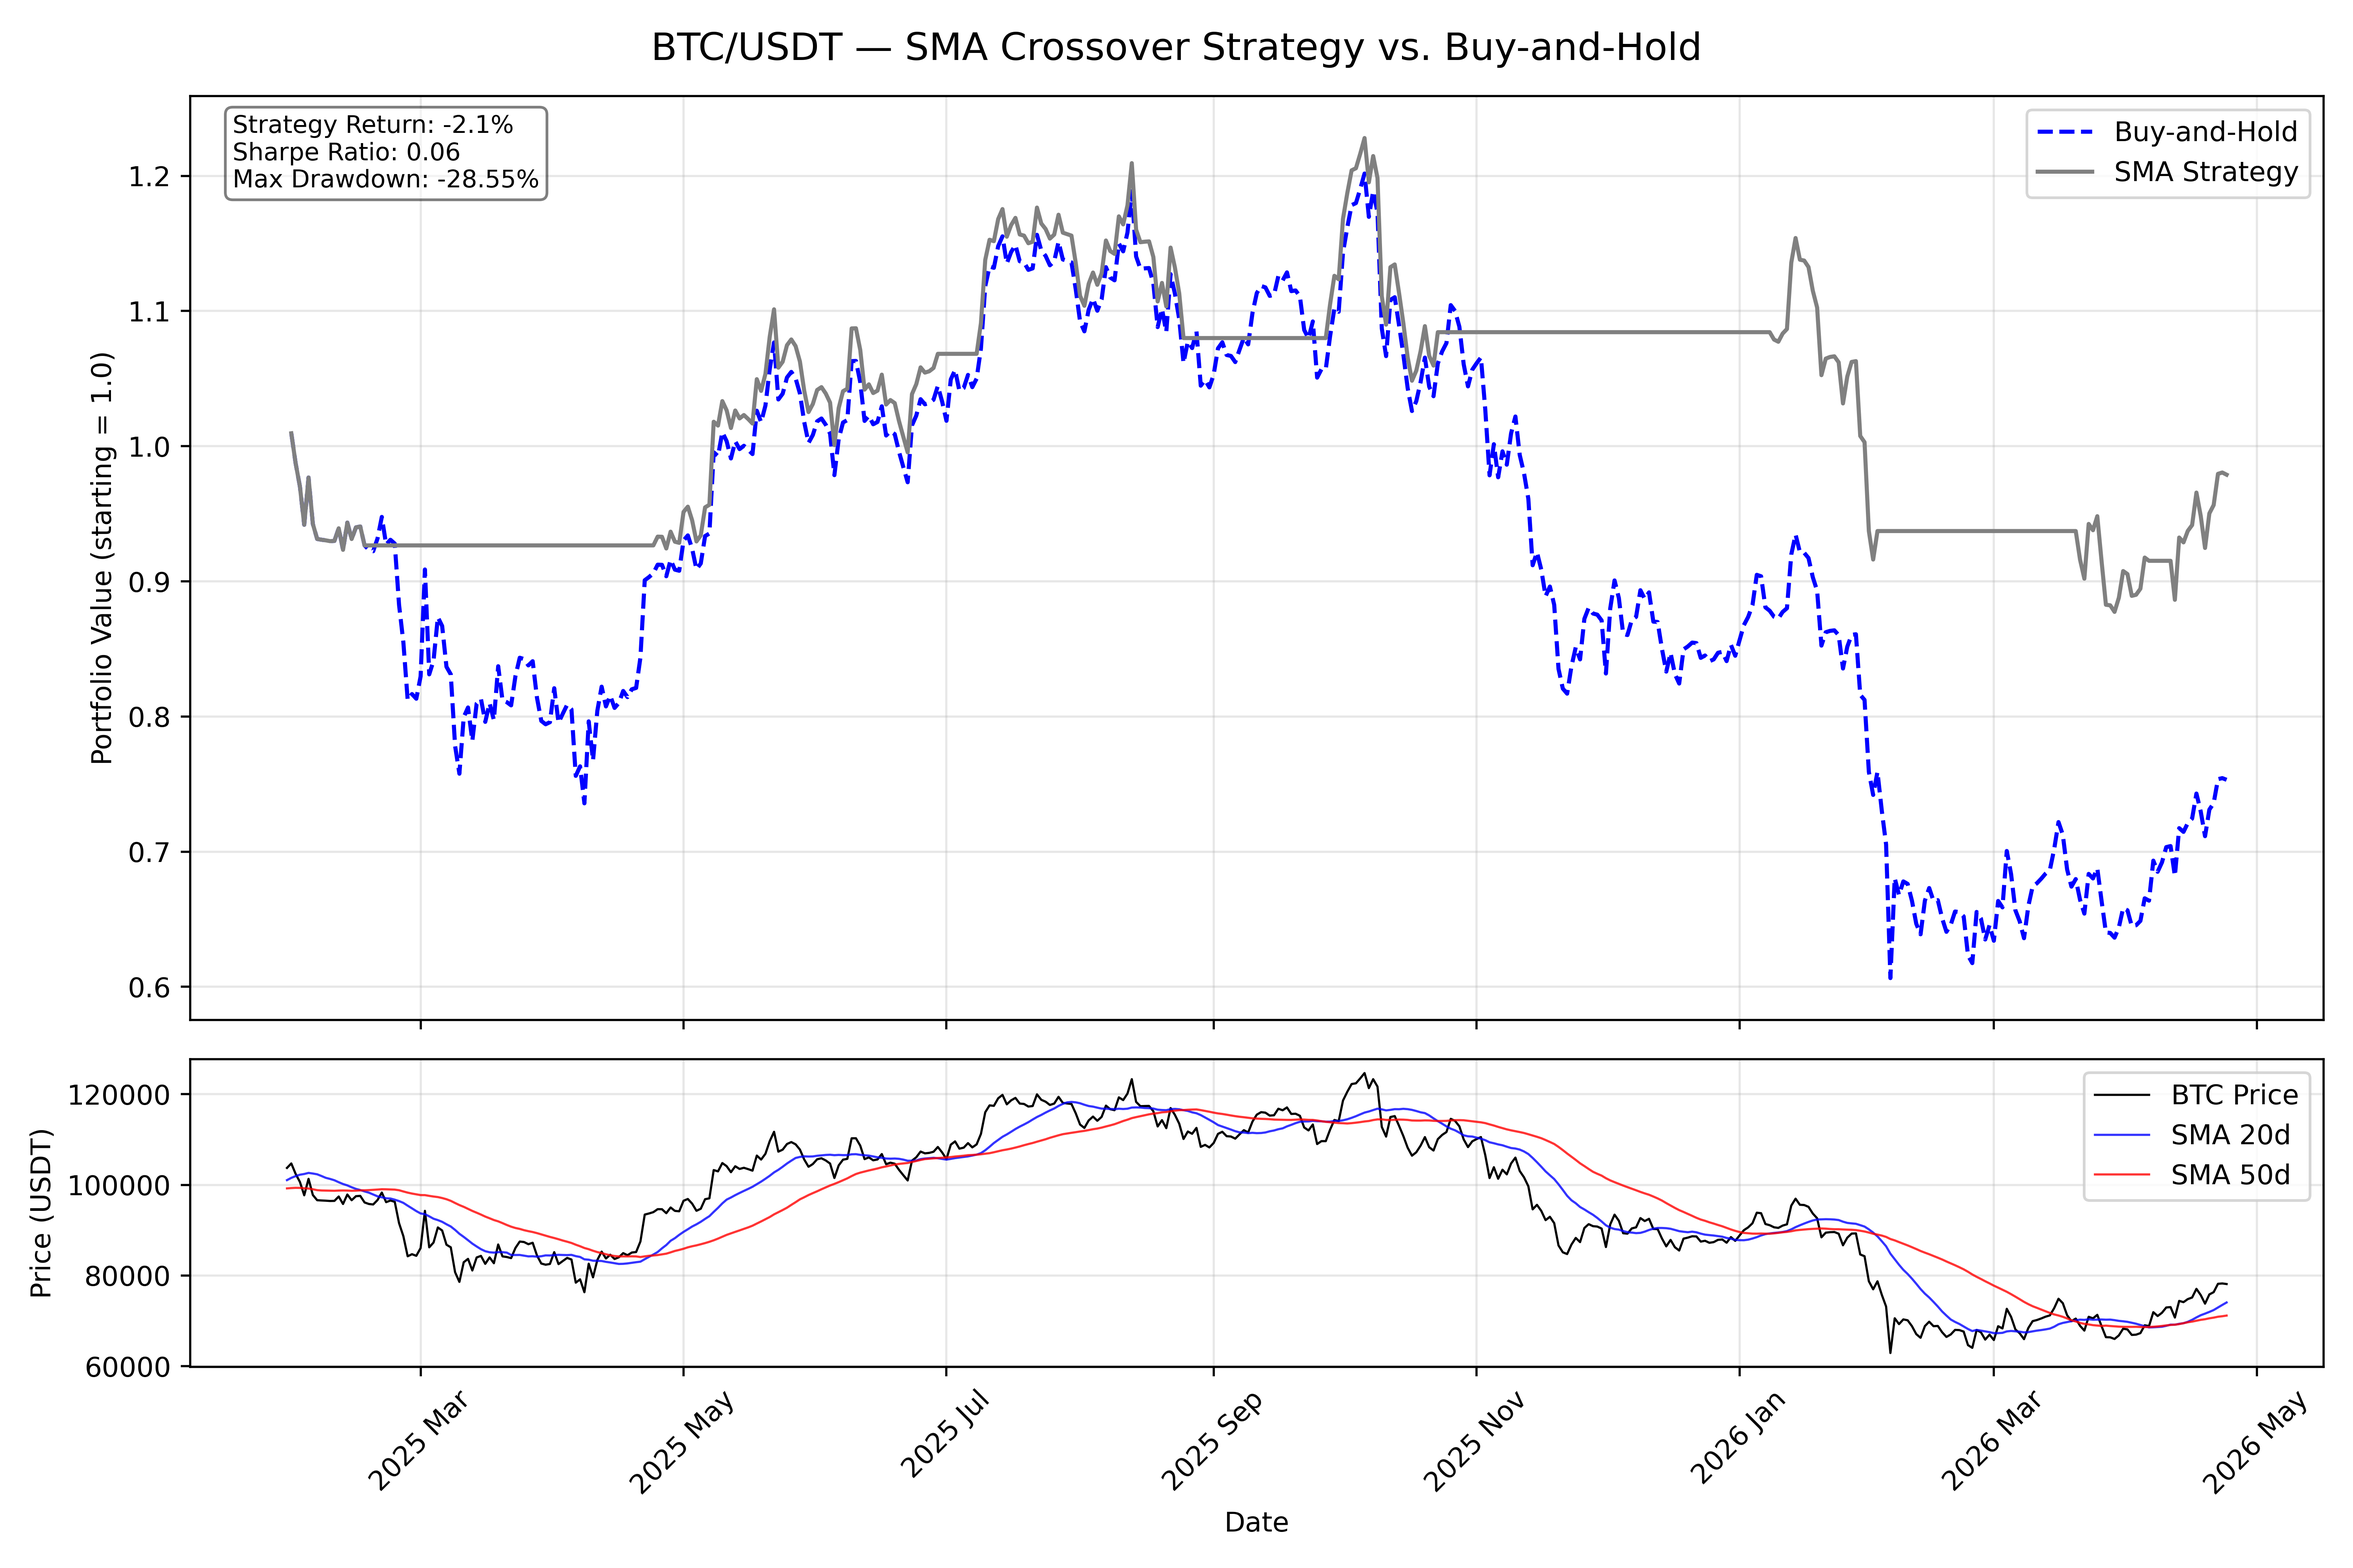
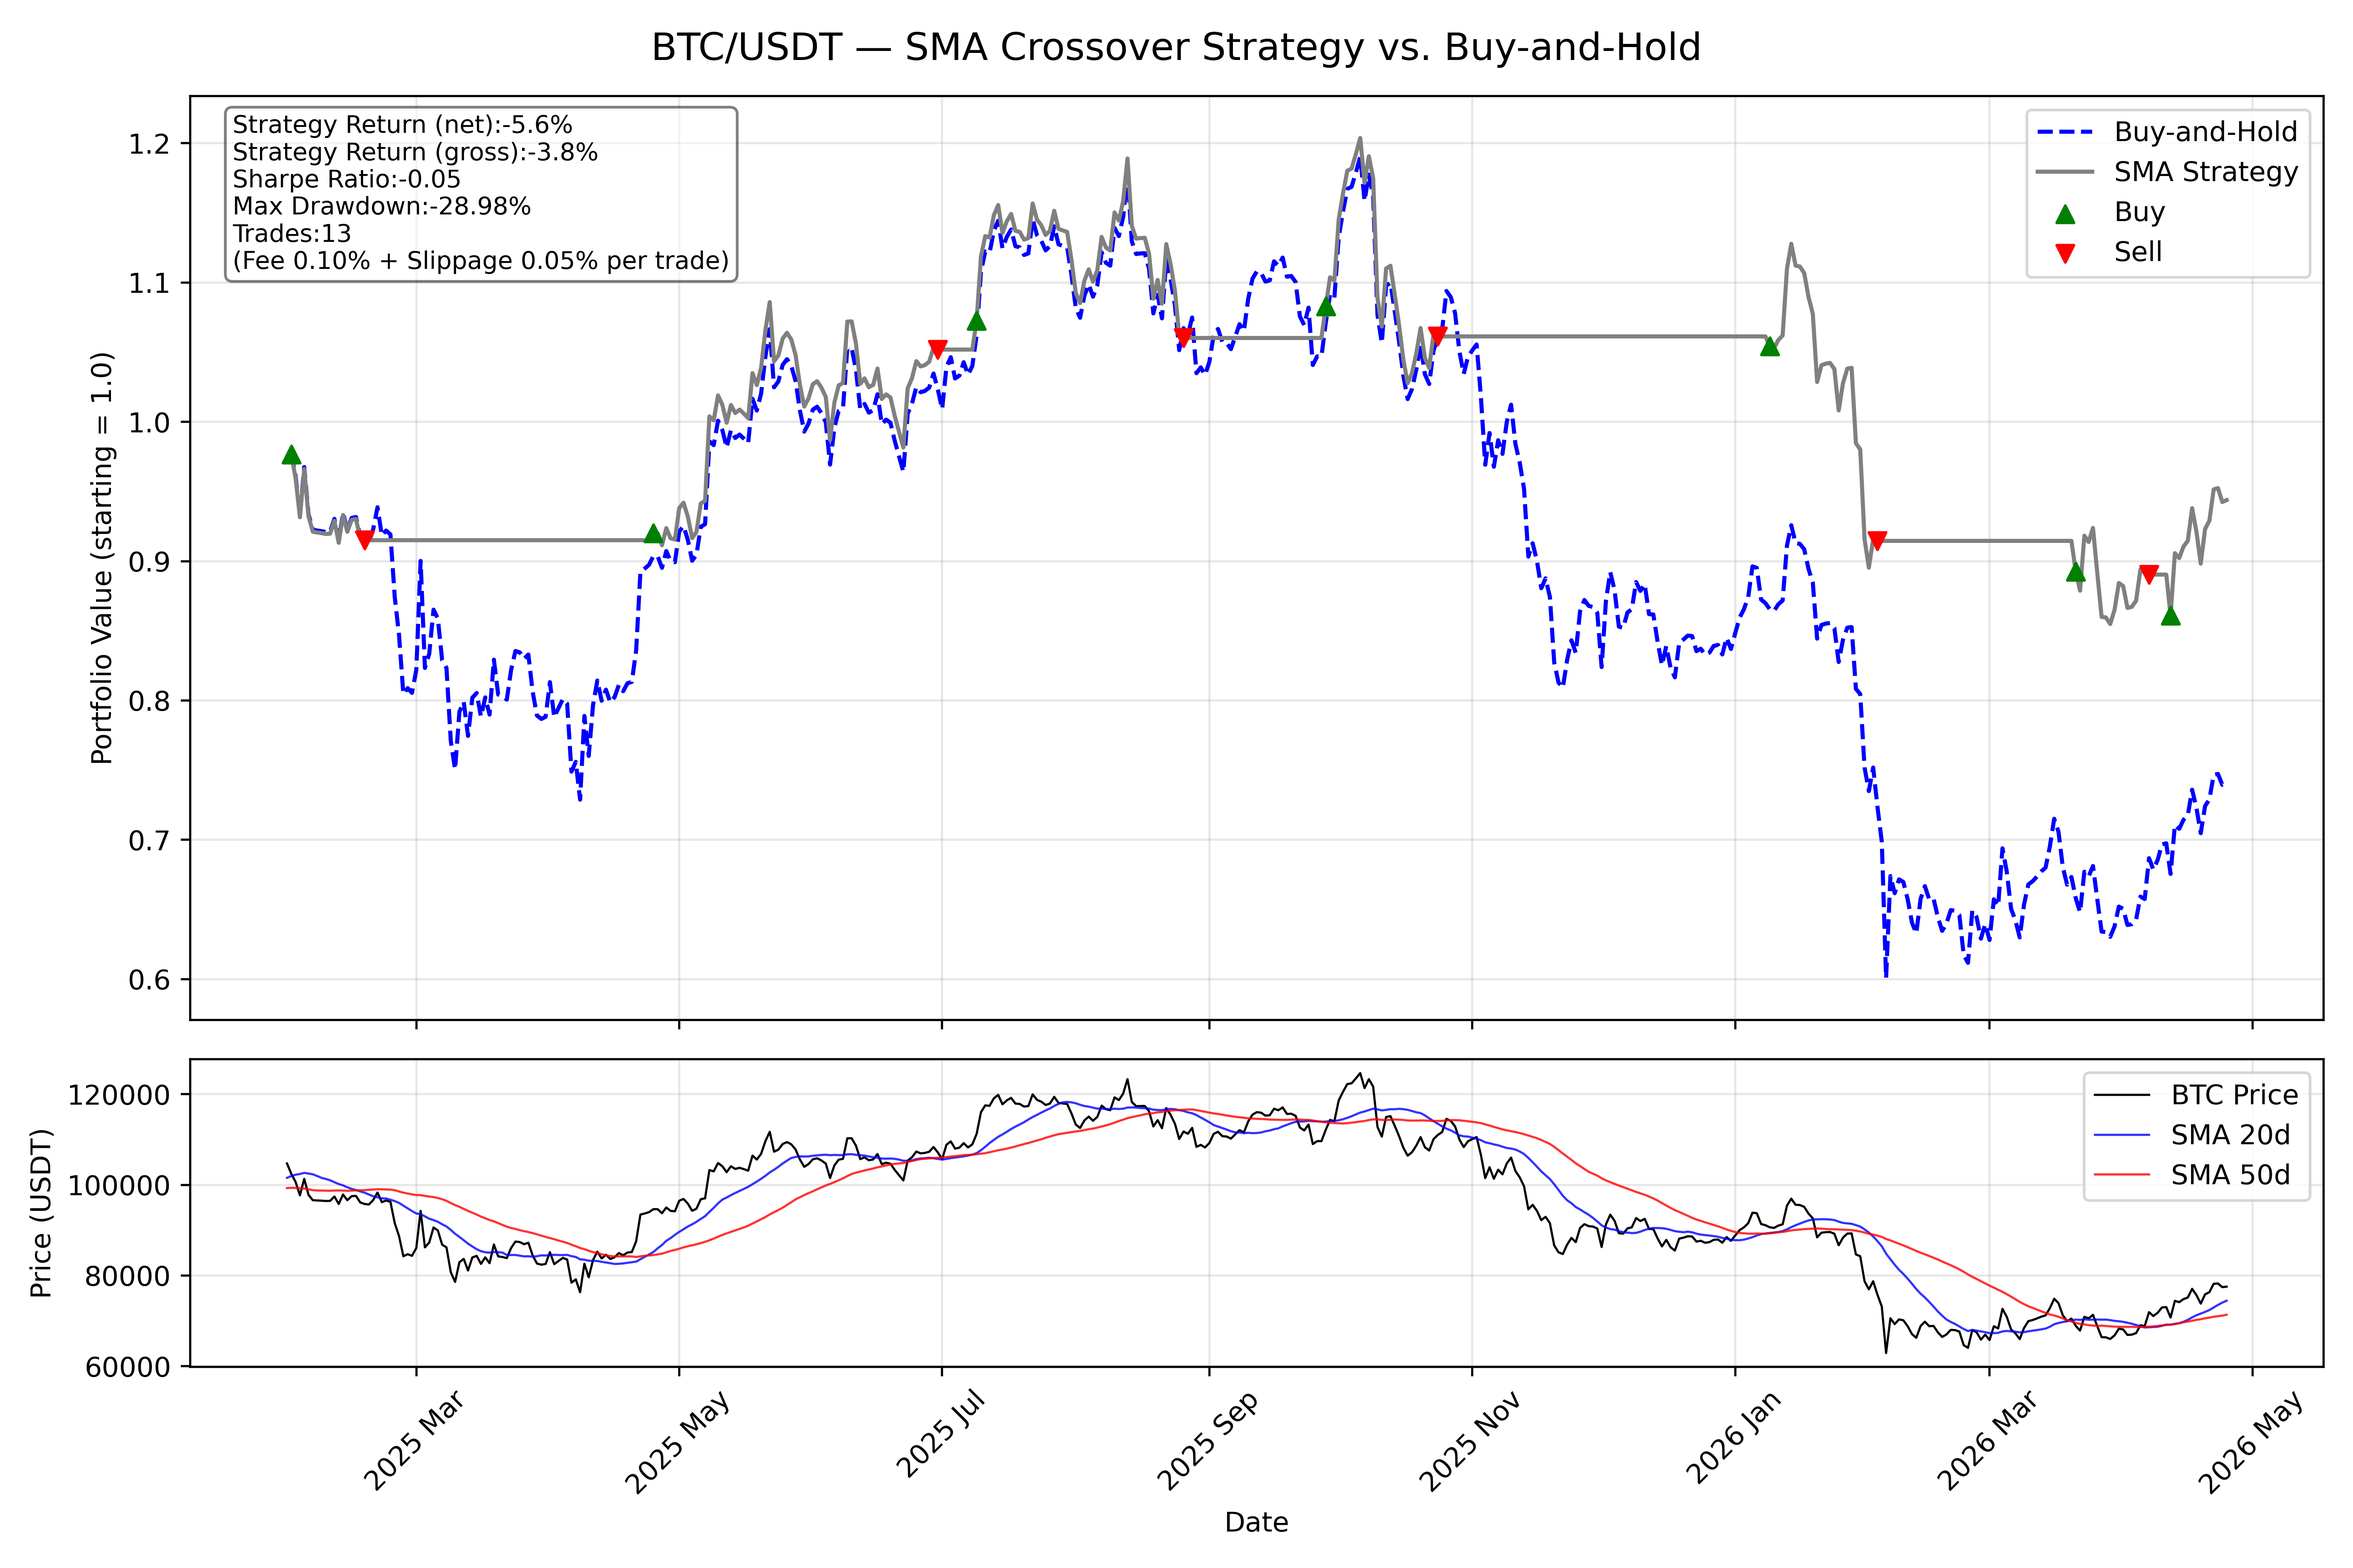
Data Update

diff --git a/backtest.py b/backtest.py
@@ -3,10 +3,6 @@ Simple Backtesting Framework for a Moving Average Crossover Strategy on Binance 
 Strategy:
 - Buy when the 20-day Simple Moving Average (SMA) crosses above the 50-day SMA
 - Sell when the 20-day SMA crosses below the 50-day SMA
-Metrics Evaluated:
-- Total Return: Overall percentage gain/loss of the strategy
-- Sharpe Ratio: Risk-adjusted return (higher is better)
-- Maximum Drawdown: Largest peak-to-trough decline (lower is better)
 '''
 
 import ccxt
@@ -21,6 +17,13 @@ LIMIT        = 500 # number of daily candles (~1.5 years)
 SHORT_WINDOW = 20
 LONG_WINDOW  = 50 
 
+TAKER_FEE = 0.001 # Binance taker rate
+SLIPPAGE = 0.0005
+COST_PER_TRADE = TAKER_FEE + SLIPPAGE
+
+
+
+
 def fetch_data(symbol: str, timeframe: str, limit: int) -> pd.DataFrame:
     exchange = ccxt.binance()
     raw = exchange.fetch_ohlcv(symbol, timeframe=timeframe, limit=limit) # OHLCV: Open, High, Low, Close, and Volume
@@ -31,7 +34,7 @@ def fetch_data(symbol: str, timeframe: str, limit: int) -> pd.DataFrame:
 
 
 
-def compute_signals(df, short_window=20, long_window=50):
+def compute_signals(df: pd.DataFrame, short_window: int, long_window: int) -> pd.DataFrame:
     # add moving averages and trade signals to the dataframe
     df["sma_short"] = df["close"].rolling(window=short_window).mean()
     df["sma_long"] = df["close"].rolling(window=long_window).mean()
@@ -43,12 +46,21 @@ def compute_signals(df, short_window=20, long_window=50):
 
 
 def compute_metrics(df: pd.DataFrame) -> dict:
-    # Returns
+    # Raw Returns
     df["market_return"] = df["close"].pct_change()
-    df["strategy_return"] = df["position"] * df["market_return"] # return of the strategy (only earns when we have a position)
+
+    # Trade Detection
+    df["trade"] = df["position"].diff().abs().fillna(0)
+    df.loc[df.index[0], "trade"] = df["position"].iloc[0]
+    df["cost"] = df["trade"] * COST_PER_TRADE
+ 
+    # Net Strategy Return
+    df["strategy_return_gross"] = df["position"] * df["market_return"]
+    df["strategy_return"]       = df["strategy_return_gross"] - df["cost"]
 
     # Cumulative Wealth Index
     df["cumulative_market_return"] = (1 + df["market_return"]).cumprod()
+    df["cumulative_strategy_return_gross"] = (1 + df["strategy_return_gross"]).cumprod()
     df["cumulative_strategy_return"] = (1 + df["strategy_return"]).cumprod()
 
     #Sharpe Ratio
@@ -62,14 +74,17 @@ def compute_metrics(df: pd.DataFrame) -> dict:
     max_drawdown = drawdown.min() # most negative value = worst loss
 
     # Total Return
-    total_return_strategy = df["cumulative_strategy_return"].iloc[-1] - 1 # final cumulative return at the end of the period
+    total_return_strategy = df["cumulative_strategy_return"].iloc[-1] - 1
+    total_return_gross    = df["cumulative_strategy_return_gross"].iloc[-1] - 1
     total_return_market = df["cumulative_market_return"].iloc[-1] - 1
 
     metrics = {
-        "Strategy Return": total_return_strategy,
+        "Strategy Return (net)": total_return_strategy,
+        "Strategy Return (gross)": total_return_gross,
         "Market Return": total_return_market,
         "Sharpe Ratio": round(sharpe, 2),
-        "Max Drawdown": max_drawdown
+        "Max Drawdown": max_drawdown,
+        "Number of Trades": int(df["trade"].sum())
     }
 
     return df, metrics
@@ -85,12 +100,22 @@ def plot_results(df: pd.DataFrame, metrics: dict) -> None:
     ax1 = axes[0] 
     ax1.plot(df.index, df["cumulative_market_return"], label="Buy-and-Hold", color="blue", linewidth=1.5, linestyle="--")
     ax1.plot(df.index, df["cumulative_strategy_return"], label="SMA Strategy", color="grey", linewidth=1.5)
+
+    buys  = df[(df["trade"] == 1) & (df["position"] == 1)]
+    sells = df[(df["trade"] == 1) & (df["position"] == 0)]
+    ax1.scatter(buys.index,buys["cumulative_strategy_return"],  marker="^", color="green", zorder=5, s=40, label="Buy")
+    ax1.scatter(sells.index,sells["cumulative_strategy_return"], marker="v", color="red",   zorder=5, s=40, label="Sell")
+
     ax1.set_ylabel("Portfolio Value (starting = 1.0)")
     ax1.legend()
     ax1.grid(True, alpha=0.3)
-    textstr = (f"Strategy Return: {metrics['Strategy Return']:.1%}\n"
-               f"Sharpe Ratio: {metrics['Sharpe Ratio']}\n"
-               f"Max Drawdown: {metrics['Max Drawdown']:.2%}")
+    textstr = (f"Strategy Return (net):{metrics['Strategy Return (net)']:.1%}\n"
+               f"Strategy Return (gross):{metrics['Strategy Return (gross)']:.1%}\n"
+               f"Sharpe Ratio:{metrics['Sharpe Ratio']}\n"
+               f"Max Drawdown:{metrics['Max Drawdown']:.2%}\n"
+               f"Trades:{metrics['Number of Trades']}\n"
+               f"(Fee {TAKER_FEE:.2%} + Slippage {SLIPPAGE:.2%} per trade)"
+               )
     ax1.text(0.02, 0.98, textstr, transform=ax1.transAxes, verticalalignment='top', fontsize=9, bbox=dict(boxstyle='round', facecolor='white', alpha=0.5)) # transform=ax1.transAxes means the coordinates are relative to the axes (0,0 is bottom-left, 1,1 is top-right)
 
     # price with SMA lines
@@ -119,6 +144,7 @@ if __name__ == "__main__": # checks if this file is being run directly, or impor
     df = compute_signals(df, SHORT_WINDOW, LONG_WINDOW)
     df, metrics = compute_metrics(df)
 
+    print("Backtest Results")
     for key, value in metrics.items():
         if isinstance(value, float):
             # Format as percentage for Return and Drawdown metrics

diff --git a/README.md b/README.md
@@ -1,6 +1,8 @@
 # BTC/USDT SMA Crossover Backtest
 
-A quantitative backtest of a Simple Moving Average crossover strategy on Bitcoin daily price data, built from scratch in Python.
+A quantitative backtest of a Simple Moving Average (SMA) crossover strategy on Bitcoin daily price data, built from scratch in Python using live Binance API data.
+
+> Results are generated from a rolling 500-day live Binance feed and results will vary by run date.
 
 ## Strategy
 - **Signal**: Buy when the 20-day SMA crosses above the 50-day SMA; sell to cash when it crosses below.
@@ -10,27 +12,36 @@ A quantitative backtest of a Simple Moving Average crossover strategy on Bitcoin
 ## Performance Metrics
 | Metric | Value |
 |---|---|
-| Strategy Total Return | -2.1% |
-| Sharpe Ratio | 0.06 |
-| Max Drawdown | -28.55% |
+| Strategy Return (net) | −5.62% |
+| Strategy Return (gross) | −3.75% |
+| Market Return (BTC) | −25.95% |
+| Sharpe Ratio | −0.05 |
+| Max Drawdown | −28.98% |
+| Number of Trades | 13 |
+
+## Cost Model
+| Cost Component | Rate |
+|---|---|
+| Taker fee | 0.10% |
+| Slippage | 0.05% |
+| Total per trade | 0.15% |
+
+ 
+## Output
+![BTC/USDT SMA Crossover Backtest Results](backtest_results.png)
+
+## Key Findings
+
+**Structural Strategy Constraints**: The negative Sharpe (−0.05) indicates risk-adjusted returns remain below the risk-free rate despite outperforming buy-and-hold in absolute terms. This is expected — a dual SMA crossover is a lagging, single-signal strategy with no volatility filtering, position sizing, or regime awareness. Whipsaw losses in sideways markets are structurally inevitable. A more sophisticated strategy is in development.
+
+**Downside protection**: The strategy lost −5.62% over the study period against a BTC buy-and-hold return of −25.95%, representing **+20.33 percentage points of outperformance** in a declining market.
+ 
+**Transaction cost impact**: Gross return was −3.75% vs net −5.62%, meaning 13 trades across ~500 days produced −1.87% of total cost drag (0.15% per trade).
+
 
 ## Setup
+
 ```bash
 pip install ccxt pandas numpy matplotlib
 python backtest.py
 ```
-
-## Output
-![Two-panel chart comparing BTC/USDT SMA Crossover Strategy performance versus Buy-and-Hold from February 2025 to May 2026.](backtest_results.png)
-
-
-## Assumptions & Limitations
-
-This backtest operates under idealised market conditions:
-
-- **No transaction costs**
-- **No slippage**
-- **Instant execution**
-- **Perfect fills**
-
-These assumptions cause backtests to systematically overestimate real-world performance. A production system would model fees and slippage explicitly.
